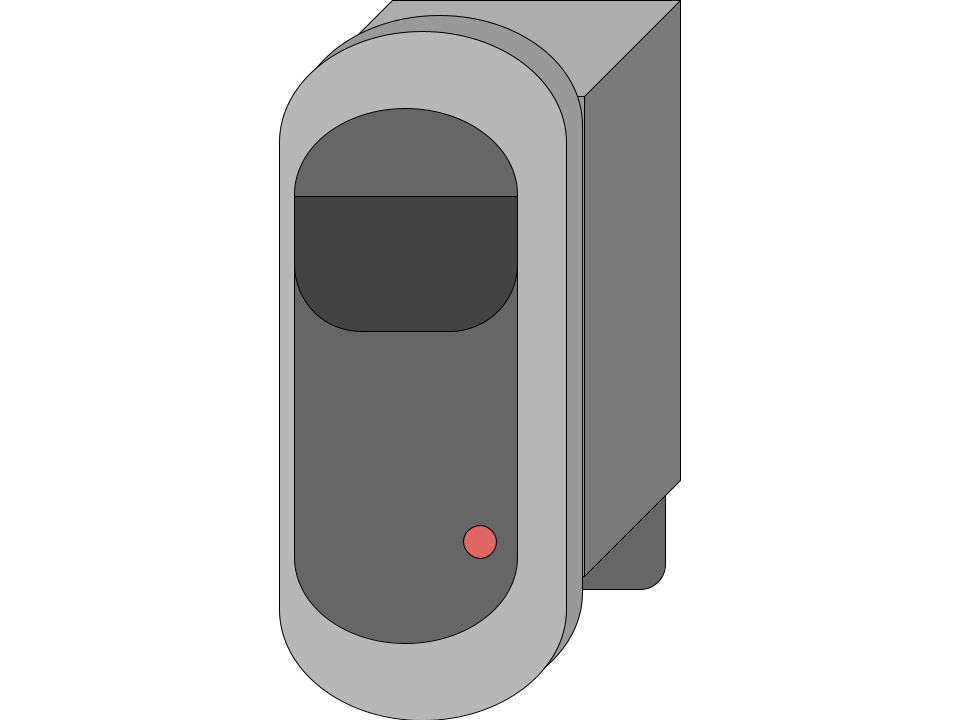
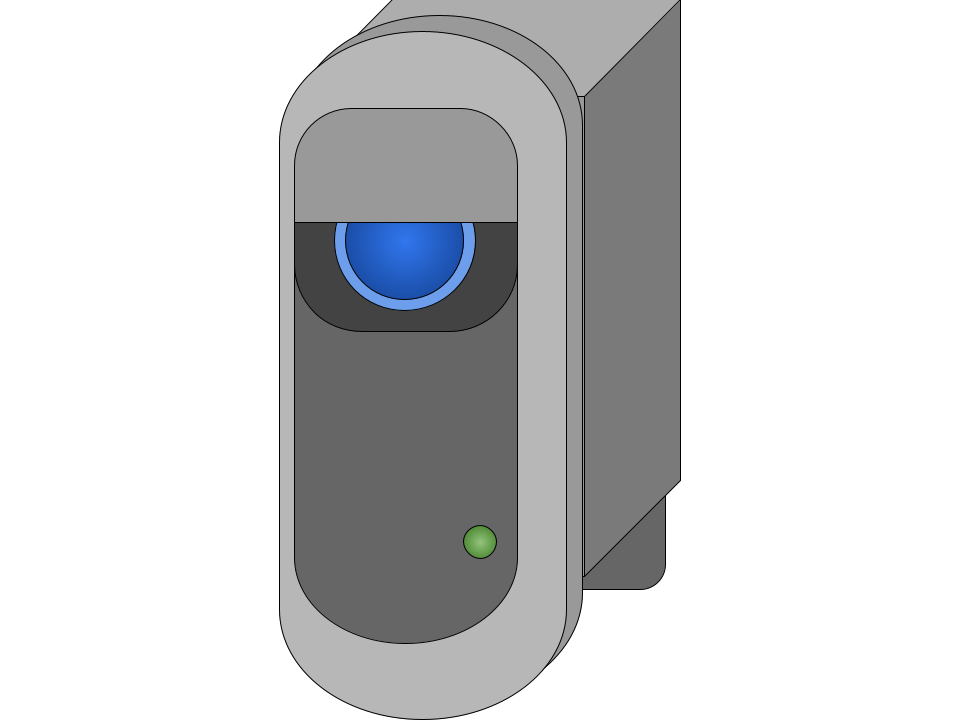
updated analytics

diff --git a/src/Components/Companion/Bot.css b/src/Components/Companion/Bot.css
@@ -1,34 +1,13 @@
 .bot-container {
     position: fixed;
-    bottom: 150px;
-    right: 0px;
+    bottom: 5px;
+    right: -20px;
     width: 150px; /* Adjust as needed */
     height: auto;
     transform: scale(1); /* Default scale */
     transform-origin: center bottom;
 }
 
-.bot-body {
+img {
     width: 100%;
-    position: absolute;
-    top: 0;
-    left: 0;
-    z-index: 1; /* Below everything */
 }
-
-.bot-eyelid {
-    width: 100%;
-    position: absolute;
-    top: 0;
-    left: 0;
-    z-index: 3; /* Above the pupil */
-}
-
-.bot-pupil {
-    width: 100%;
-    position: absolute;
-    top: 0;
-    left: 0;
-    z-index: 2; /* Above the pupil */
-}
-

diff --git a/src/Components/Companion/Bot.jsx b/src/Components/Companion/Bot.jsx
@@ -1,19 +1,10 @@
 import React from "react";
-import "./Bot.css";
-import useMousePosition from "../hooks/useMousePosition"; // Hook to track cursor
+import "./Bot.css"
 
 const Bot = () => {
-  const { x, y } = useMousePosition();
-
   return (
     <div className="bot-container">
-      {/* Static bot body */}
-      <img src="/Bot.png" className="bot-body" alt="Bot Body" />
-
-      {/* Eyelid (Stays fixed on top of the pupil) */}
-      <img src="/Eyelid.png" className="bot-eyelid" alt="Bot Eyelid" />
-
-      <img src="/Pupil.png" className="bot-pupil" alt="Bot Pupil" />
+     <img src="/Bot.png"/>
     </div>
   );
 };

diff --git a/src/Components/charts/StreakChart.jsx b/src/Components/charts/StreakChart.jsx
@@ -20,7 +20,8 @@ const StreakChart = ({ streakHistory}) => {
                         return [`${value} 🔥`, `Date: ${date}`]; // Show both streak count & date
                       }} 
                     />
-                    <Line type="monotone" dataKey="streak" stroke='#ff5bce' strokeWidth={2} />
+                    <Line type="linear" dataKey="streak" stroke='#ff5bce' strokeWidth={2} />
+
 
 
                   </LineChart>

diff --git a/src/Components/Pages/Analytics.css b/src/Components/Pages/Analytics.css
@@ -6,7 +6,7 @@
   padding: 20px;
   width: 1000px;
   border-radius: 10px;
-  box-shadow: 0px 0px 50px #ff5bce;
+  
 }
 
 .chart-container {
@@ -37,6 +37,7 @@
 .light-theme .chart-card {
   background-color: #f0f0f0; /* Light background for light theme */
   color: #333; /* Dark text for light theme */
+  box-shadow: 0px 0px 50px #007bff;
 }
 
 .light-theme .chart {
